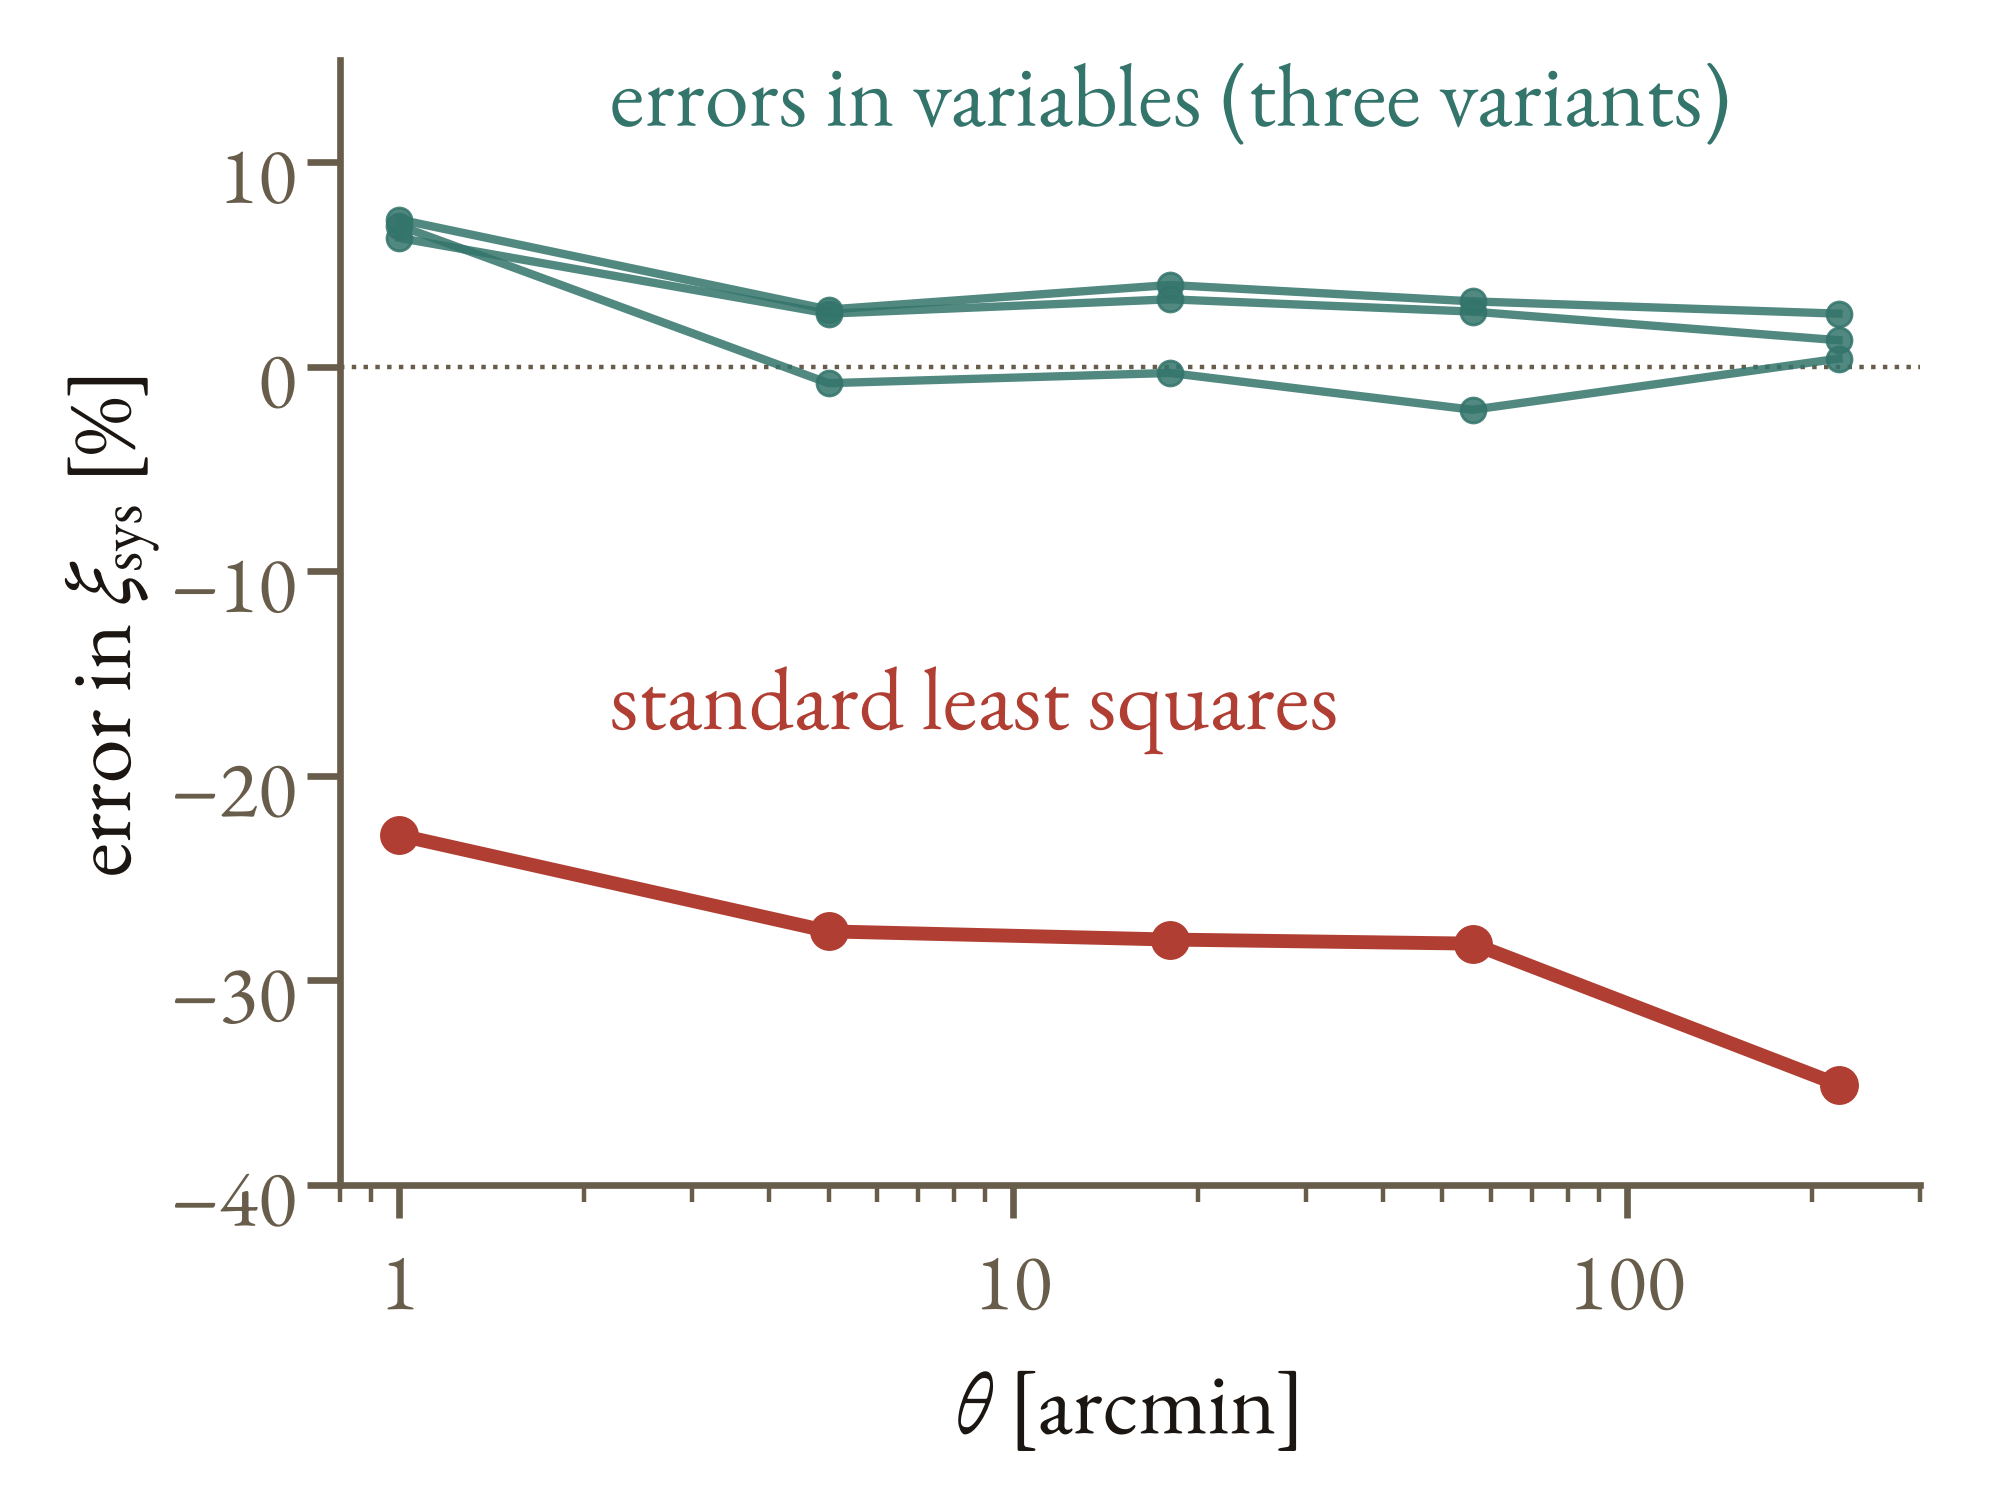
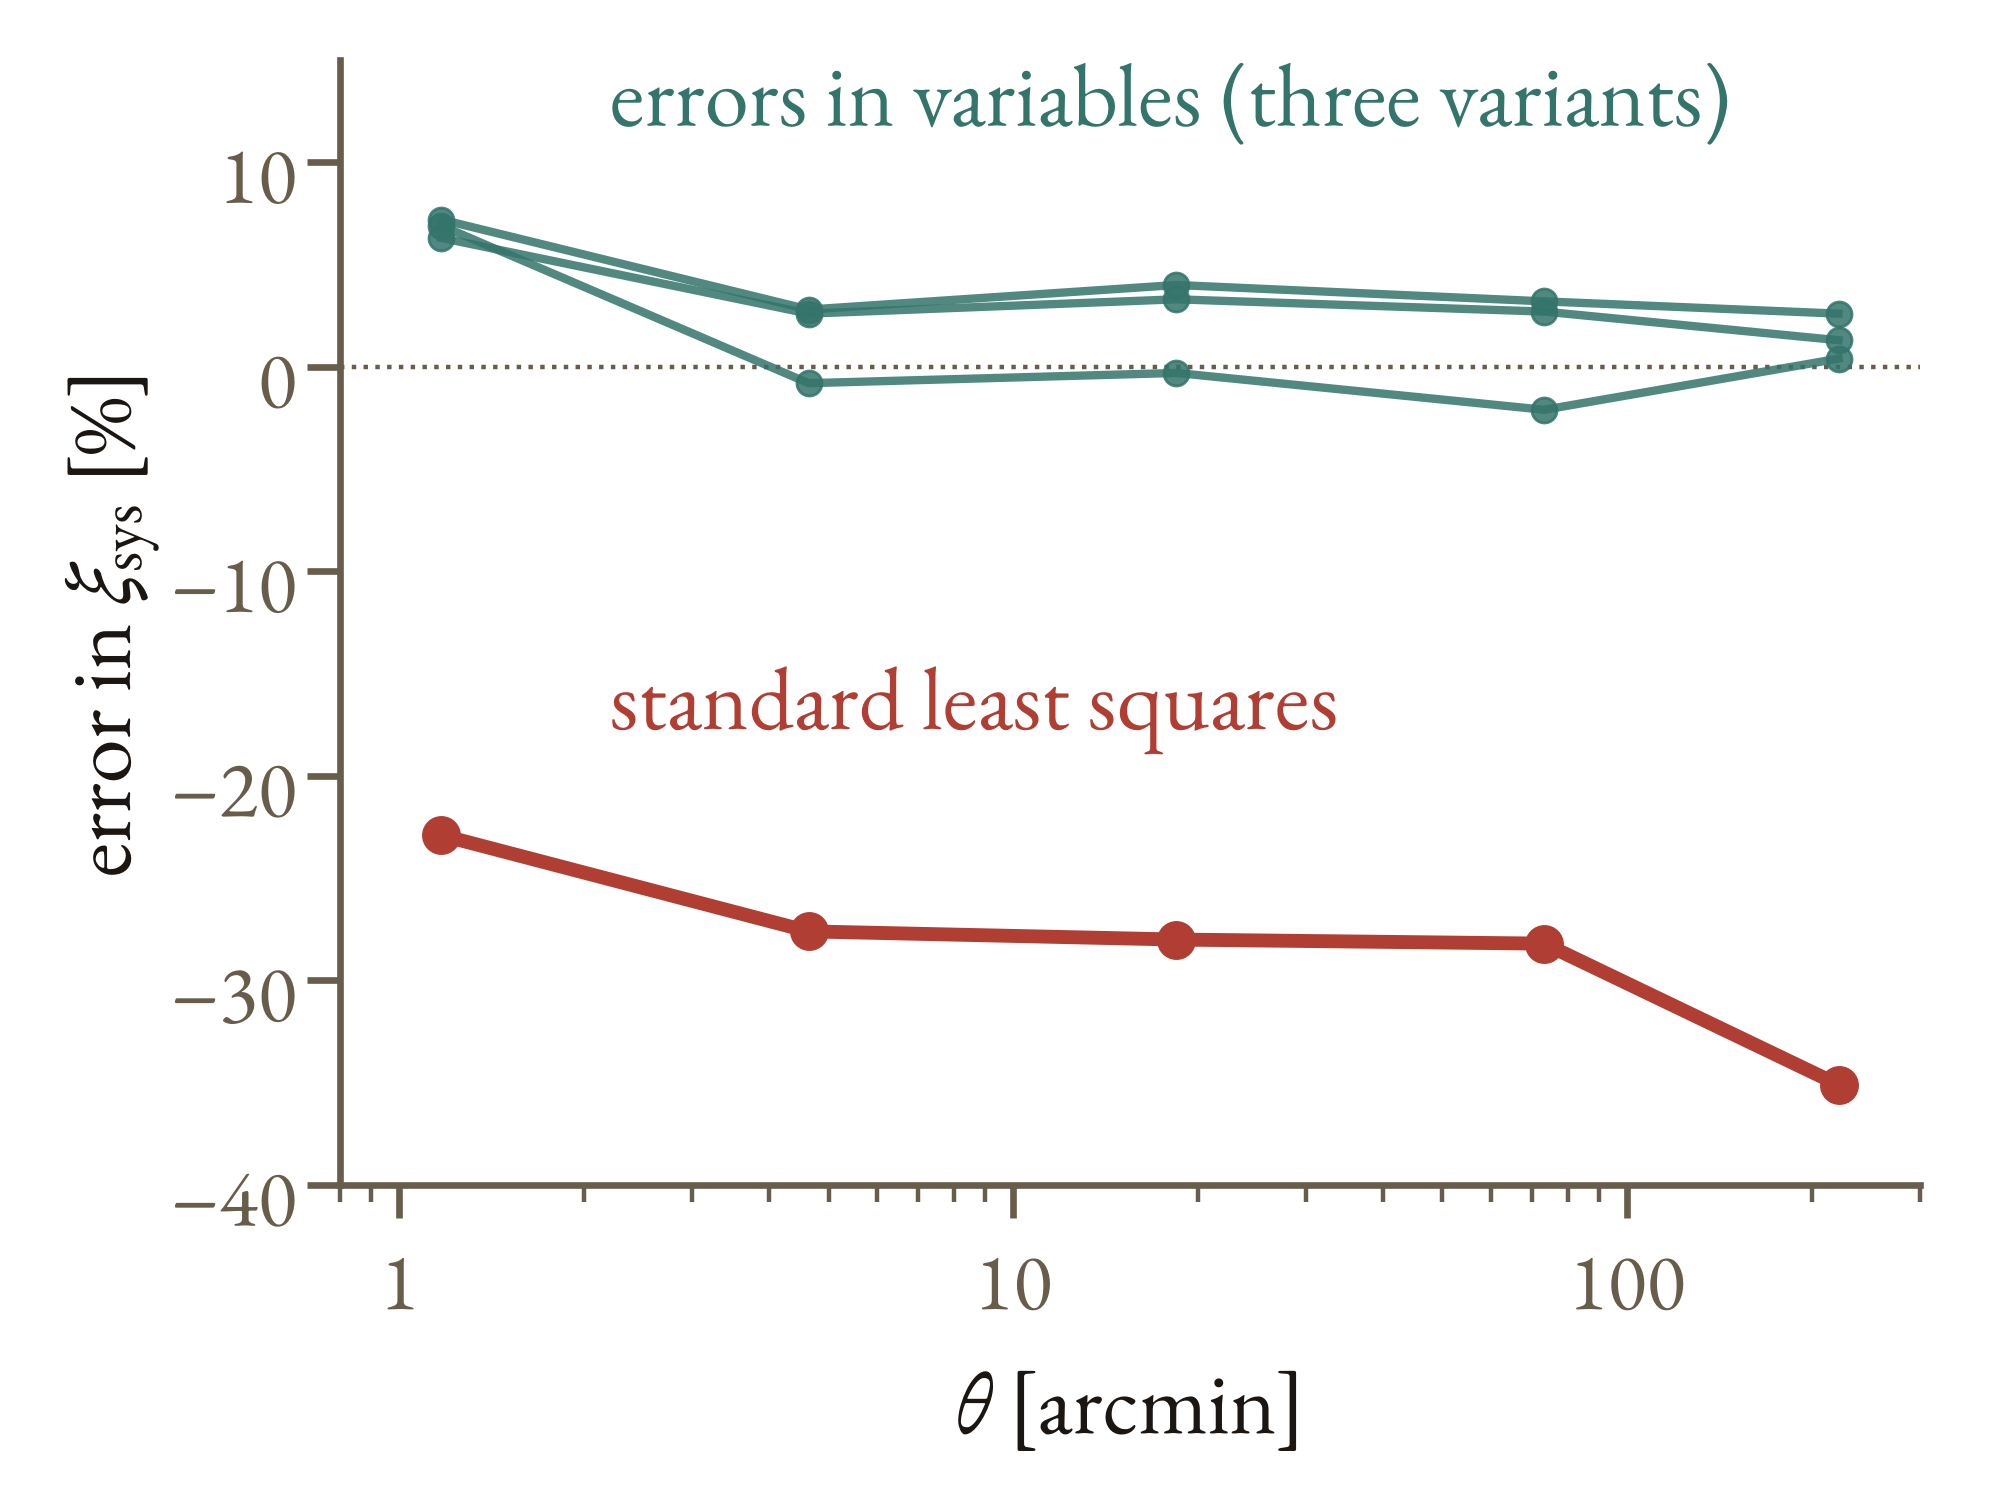
ICE deck: title rules, leakage scales from measured bins, notes match sources
sbi and 3x2pt titles lose their comma and article. The leakage figure plots
the fourth scale at its measured 73' (the source table labels it 56'). Notes
say the 3x2pt data chain comes next, credit Sacha Guerrini's GLASS generator,
and distinguish clustering from working n(z) means; the summary keeps the
abstract's "same techniques".

Claude-Session: https://claude.ai/code/session_01JK7o9JCz12XcqMoVFrWFAq

diff --git a/2611_ICE_Barcelona/slides/unions-3x2pt.html b/2611_ICE_Barcelona/slides/unions-3x2pt.html
@@ -1,5 +1,5 @@
 <section data-layout="figure-text" data-stack>
-  <h2>3×2pt with SPHEREx lenses, expected in summer 2027</h2>
+  <h2>3×2pt with SPHEREx lenses expected in summer 2027</h2>
   <figure>
     <svg viewBox="0 30 1712 310" role="img" aria-label="Redshift axis from 0 to 1.2: five LSx lens bins between 0.05 and 0.55, and the mean redshifts of the four UNIONS source bins at 0.29, 0.43, 0.58 and 0.92">
       <path d="M60 240 H1652" class="stroke-muted" stroke-width="3"></path>
@@ -45,9 +45,9 @@
     <ul class="skim">
       <li><strong>Axis</strong> — the five LSx lens bins (L1–L5, $z$ 0.05–0.55 in steps of 0.1) as boxes, and the mean redshifts of the four UNIONS v2 source bins (S1–S4) as triangles, both from clustering redshifts.</li>
       <li><strong>Lens sample</strong> — Calum Murray's LSx v0.92, Legacy Surveys imaging with SPHEREx photometric redshifts: 8.53 million galaxies on the 4,099 deg² it shares with the v2 tomographic footprint. Each bin's clustering-redshift mean, measured against DESI DR1, is good to 0.005–0.011 and within 1.1σ of the photo-z expectation.</li>
-      <li><strong>Status</strong> — a first 3×2pt chain (shear, galaxy–galaxy lensing, clustering) runs on GLASS mocks and recovers the input. It used seven stand-in lens bins and no nuisance parameters; the mock with the LSx bins, the blind and the data chain are in progress. No data shear has been measured for it.</li>
+      <li><strong>Status</strong> — a first 3×2pt chain (shear, galaxy–galaxy lensing, clustering) runs on GLASS mocks and recovers the input. It used seven stand-in lens bins and no nuisance parameters; the mock with the LSx bins, the blind and the data chain come next, from code that is part-built. No data shear has been measured for it.</li>
     </ul>
-    <details><summary>Numbers</summary><p>Mean of 20 mock skies: $\Omega_{\rm m} = 0.3096 \pm 0.021$ against a truth of 0.3097, lens biases within 0.3σ, $S_8$ at −1σ, about half from prior volume and half from a 2 % excess in the mock's $w(\theta)$. Lens linear biases from $w(\theta)$: 1.05, 1.19, 1.37, 1.35, 1.53. Source-bin clustering means: 0.293, 0.428, 0.583, 0.924.</p></details>
+    <details><summary>Numbers</summary><p>Mean of 20 mock skies: $\Omega_{\rm m} = 0.3096 \pm 0.021$ against a truth of 0.3097, lens biases within 0.3σ, $S_8$ at −1σ, about half from prior volume and half from a 2 % excess in the mock's $w(\theta)$. Lens linear biases from $w(\theta)$: 1.05, 1.19, 1.37, 1.35, 1.53. Source-bin clustering means: 0.293, 0.428, 0.583, 0.924 (±0.021–0.026); the working $n(z)$ on the cosmic-shear slide, a different estimate, gives 0.29, 0.45, 0.61, 0.93.</p></details>
     <details><summary>Still missing</summary><p>The Gaussian covariance is 5–20 % tight on the mocks, $n_s$ needs an external prior, and intrinsic alignments, shear calibration, redshift shifts, redshift-space distortions, magnification and nonlinear bias are not yet in the mock or the model.</p></details>
     <details><summary>Credit</summary><p>The 3×2pt analysis is led by Calum Murray and Cail Daley; the UNIONS v2 shape catalog is Cail's, the LSx lens sample Calum's. It runs separately from the cosmic-shear analysis led by Klara Bertmann.</p></details>
   </aside>

diff --git a/2611_ICE_Barcelona/slides/unions-bmode-mocks.html b/2611_ICE_Barcelona/slides/unions-bmode-mocks.html
@@ -18,6 +18,6 @@
       <li><strong>Reading</strong> — the data's 0.89 (GLS σ 0.23) sits at +3.7σ against the mocks, and none of the 69 reaches it, so the B-mode excess is an additive systematic in the data. On $\chi^2$ alone it is a tension (PTEs 0.02–0.03 once recalibrated on the mocks), because $\chi^2$ ignores sign; the template, coherent in sign across bands and pairs, is what makes it significant.</li>
     </ul>
     <details><summary>Caveats</summary><p>The template shape was fitted to the B-modes of the non-tomographic run, largely the same galaxies, so its significance is mildly a posteriori. With revised tomographic bins and their own matched ensemble of 69 mocks, the amplitude is 0.77 at +3.3σ, again with no mock reaching it. The blind adds no B-mode, so these null tests are blind-insensitive. The fitted PSF-leakage model accounts for about 26–30 % of the excess; the next mock ingredient is PSF leakage injected at the measured per-bin amplitude.</p></details>
-    <details><summary>Sources</summary><p>UNIONS v2 mocks-versus-data report (10 November 2026), sampled GLASS ensemble from sp_validation's <em>make_glass_sim.py</em>; the figure is redrawn from its numbers by <em>make_unions_mock_checks.py</em> in this deck.</p></details>
+    <details><summary>Sources</summary><p>UNIONS v2 mocks-versus-data report (10 November 2026), sampled GLASS ensemble from Sacha Guerrini's GLASS mock generator in sp_validation; the figure is redrawn from its numbers by <em>make_unions_mock_checks.py</em> in this deck.</p></details>
   </aside>
 </section>

diff --git a/2611_ICE_Barcelona/slides/summary.html b/2611_ICE_Barcelona/slides/summary.html
@@ -1,8 +1,8 @@
 <section data-layout="closing">
   <h2>Summary</h2>
   <ol>
-    <li>Mocks validate pipelines and characterize systematics; made fast, they become forward models for inference</li>
-    <li>Euclid × SPT-3G: pipeline validated on GLASS mocks, blinded on TR1</li>
+    <li>Mocks validate pipelines and characterize systematics; same techniques give forward models for inference</li>
+    <li>Euclid × SPT-3G: validated on GLASS mocks, blinded on TR1</li>
     <li>UNIONS: 191 million galaxies over 5,200 deg²; cosmic shear and 3×2pt with SPHEREx in summer 2027</li>
     <li>Mocks give agents a verifiable environment; agent-assisted analysis of public data may change how collaborations work</li>
   </ol>

diff --git a/2611_ICE_Barcelona/slides/title.html b/2611_ICE_Barcelona/slides/title.html
@@ -7,7 +7,7 @@
   <aside class="notes">
     <ul class="skim">
       <li><strong>The talk</strong> — mocks that reproduce a survey's observational properties, and forward models built from the same techniques, in two analyses: a 6×2pt cross-correlation of Euclid and SPT-3G, and a new UNIONS shape catalog over more than 5,000 deg².</li>
-      <li><strong>Blinded</strong> — every Euclid cosmological result in this talk is blinded, and so is every UNIONS v2 data vector.</li>
+      <li><strong>Blinded</strong> — every Euclid cosmological result in this talk is blinded, and so is the UNIONS v2 data vector placed against mocks.</li>
     </ul>
   </aside>
 </section>

diff --git a/2611_ICE_Barcelona/slides/sbi.html b/2611_ICE_Barcelona/slides/sbi.html
@@ -1,8 +1,8 @@
 <section data-layout="points">
-  <h2>In simulation-based inference, mocks become the analysis</h2>
+  <h2>Simulation-based inference trains on survey-realistic mocks</h2>
   <ul>
     <li>once the simulations reproduce the data, they define the likelihood</li>
-    <li>survey-realistic mocks become the training set</li>
+    <li>mocks that validate the pipeline become the training set</li>
     <li class="fragment">UNIONS: a northern dataset for SBI, with DESI and CMB lensing on the same sky</li>
     <li class="fragment">SPT-3G as the next module of the CMB-lensing forward model</li>
   </ul>

diff --git a/2611_ICE_Barcelona/slides/agents.html b/2611_ICE_Barcelona/slides/agents.html
@@ -3,7 +3,7 @@
   <ul>
     <li>a mock's input is known, so an agent can check its own work against it</li>
     <li class="fragment">scientists specify analysis requirements at a higher level</li>
-    <li class="fragment">built and run with agents: Euclid × SPT-3G pipeline, UNIONS v2 catalog</li>
+    <li class="fragment">built and run with agents: Euclid × SPT-3G, UNIONS v2 catalog</li>
   </ul>
   <aside class="notes">
     <ul class="skim">
